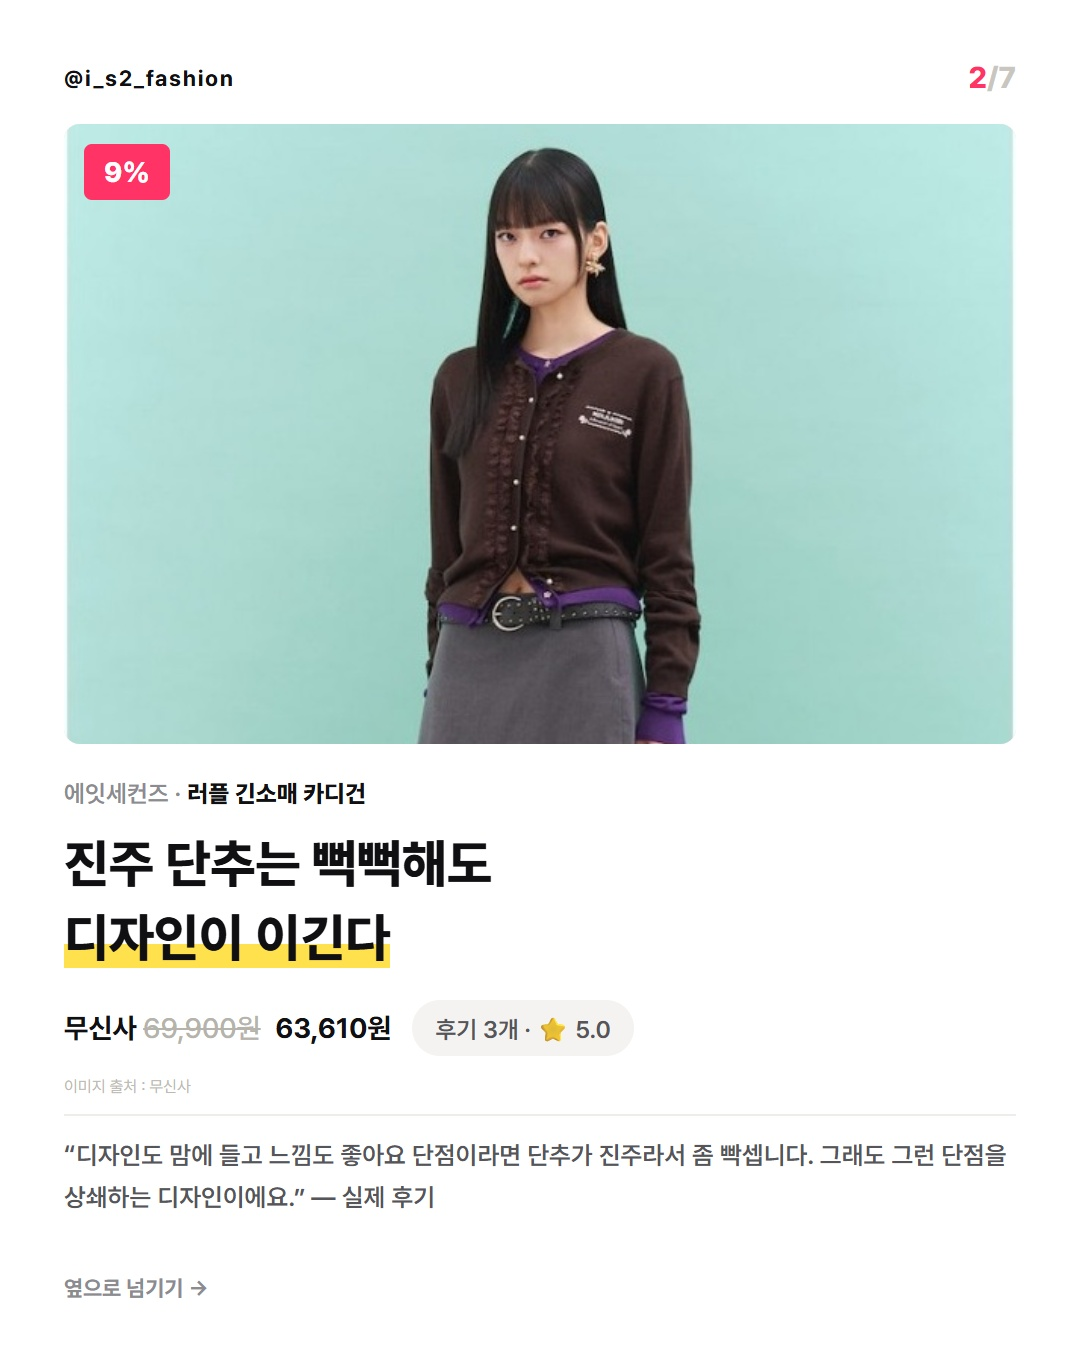
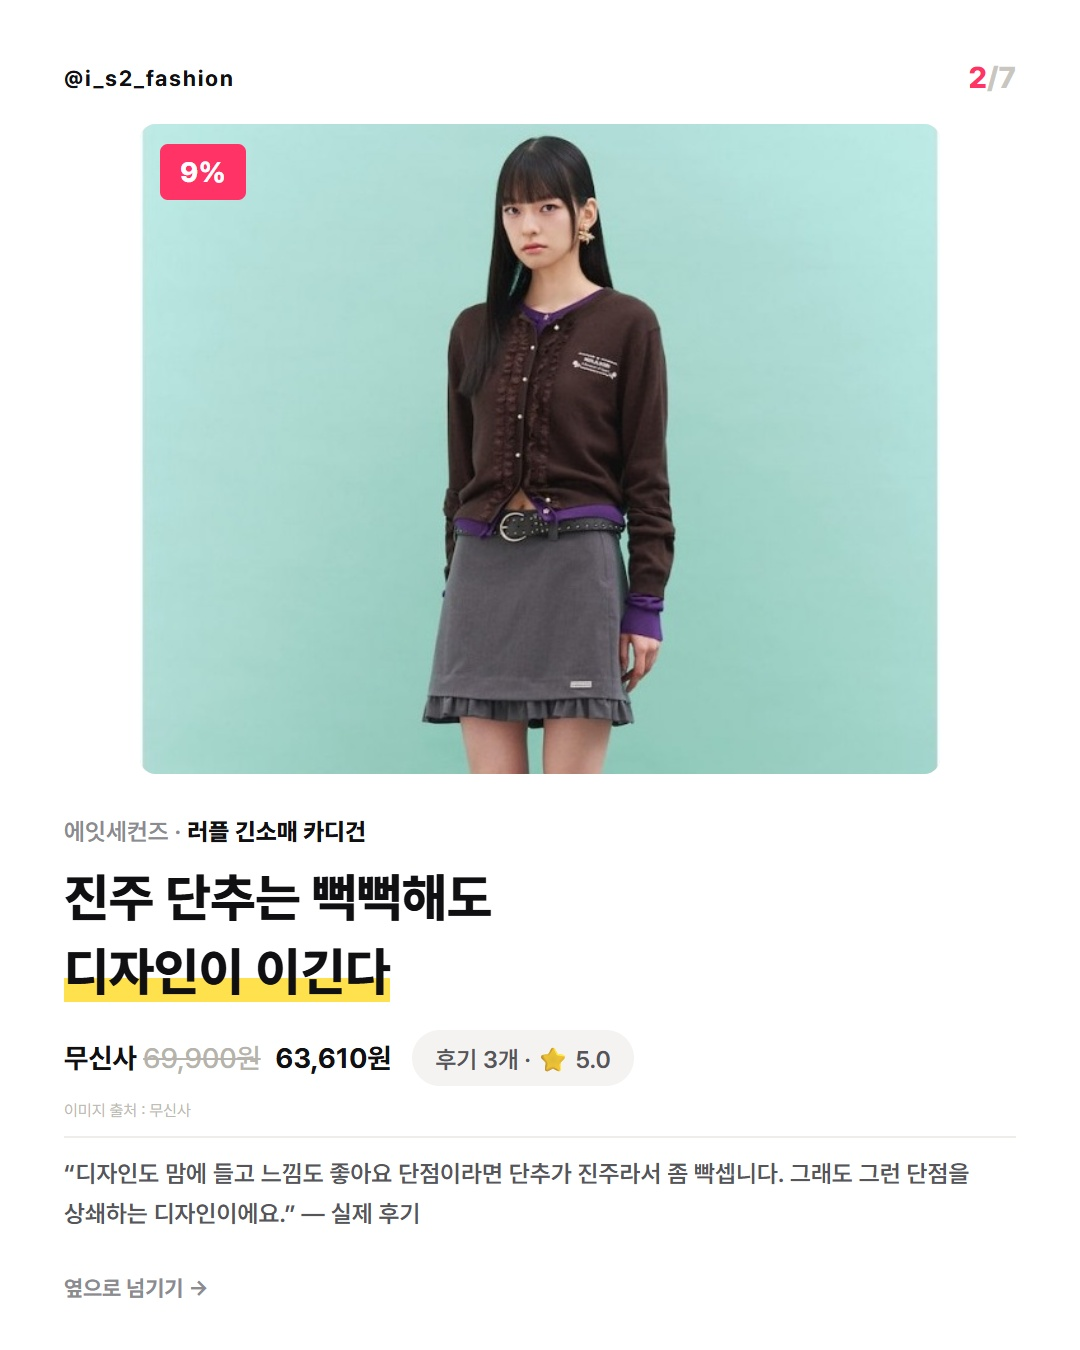
chore: auto-commit by Claude Code (2026-09-04 01:17:54)

Changed region(s): [[0.0611, 0.0933, 0.9472, 0.9022], [0.3972, 0.7467, 0.5806, 0.8089]]

diff --git a/card-drafts/early-autumn-outer/index.html b/card-drafts/early-autumn-outer/index.html
@@ -1,24 +1,25 @@
 <!doctype html><html lang="ko"><head><meta charset="utf-8"><meta name="viewport" content="width=device-width,initial-scale=1"><title>초가을 아우터 카드뉴스</title>
 <link href="https://cdn.jsdelivr.net/gh/orioncactus/pretendard@v1.3.9/dist/web/variable/pretendardvariable.min.css" rel="stylesheet"><style>
-:root{--ink:#101012;--mute:#8b8b90;--accent:#ff3366;--chip:#f4f3f1;--sans:"Pretendard Variable","Pretendard","Apple SD Gothic Neo","Malgun Gothic",system-ui,sans-serif}*{box-sizing:border-box}body{margin:0;background:#141416;color:#cfcfca;font-family:var(--sans);padding:42px 20px 100px}.head{max-width:1180px;margin:auto;text-align:center}.head h1{font-size:20px;color:#fff;margin:0 0 10px}.head p{font-size:13px;color:#96938c;line-height:1.7;margin:0}.toolbar{margin:20px auto 34px;text-align:center}.toolbar button{font:600 11px var(--sans);letter-spacing:.12em;background:#e8e5de;border:0;padding:12px 22px;cursor:pointer}.board{max-width:1180px;margin:auto;display:grid;grid-template-columns:repeat(auto-fit,minmax(270px,1fr));gap:40px 26px;justify-items:center}.col{width:100%;max-width:360px}.slot{width:100%;position:relative;overflow:hidden}.cap{display:flex;justify-content:space-between;align-items:center;margin:14px 2px 0;font-size:10.5px;color:#8f8c85;letter-spacing:.14em}.cap button{font:500 10px var(--sans);color:#cfccc5;background:transparent;border:1px solid #ffffff2e;padding:6px 11px;cursor:pointer}.card{position:relative;width:540px;height:675px;overflow:hidden;background:#fff;color:var(--ink);transform-origin:top left;display:flex;flex-direction:column;padding:30px 32px 24px}.toprow{display:flex;justify-content:space-between;align-items:center;flex:none;margin-bottom:14px}.handle{font-size:11px;font-weight:700;letter-spacing:.08em}.num{font-size:15px;font-weight:800;color:var(--accent)}.num i{font-style:normal;color:#c9c6bf}.photo{flex:none;align-self:center;width:330px;height:330px;border-radius:6px;overflow:hidden;position:relative;background:#f5f5f3}.photo img{width:100%;height:100%;object-fit:contain;display:block}.badge{position:absolute;top:10px;left:10px;background:var(--accent);color:#fff;font-size:14px;font-weight:800;padding:6px 10px;border-radius:4px}.caption{flex:1;min-height:0;display:flex;flex-direction:column;justify-content:center}.title{margin:0;font-weight:800;font-size:26px;line-height:1.42;letter-spacing:0;word-break:keep-all}.title em{font-style:normal;box-shadow:inset 0 -12px 0 #ffe14d}.prodline{font-size:12px;font-weight:600;color:#8b8b90;margin-bottom:10px;letter-spacing:.1px}.prodline b{color:#101012;font-weight:800}.metarow{display:flex;align-items:center;gap:10px;margin-top:12px;flex-wrap:wrap}.meta{font-size:14px;font-weight:700}.proof{background:var(--chip);border-radius:99px;padding:6px 12px;font-size:12px;font-weight:600;color:#55555a}.credit{font-size:8px;color:#bdbab3;margin-top:10px}.selling{margin-top:9px;font-size:12.5px;font-weight:600;color:#55555a;line-height:1.75;letter-spacing:.1px;word-break:keep-all;border-top:1px solid #efedea;padding-top:9px}.foot{flex:none;margin-top:10px;font-size:11px;font-weight:700;color:var(--mute)}.cover .title{font-size:39px;line-height:1.34;letter-spacing:-.2px}.cover .kicker{font-size:14px;font-weight:800;color:var(--accent);letter-spacing:.14em;margin-bottom:10px}.cover .sub,.cta .sub{font-size:14.5px;font-weight:600;color:#55555a;margin:14px 0 0;line-height:1.75;letter-spacing:.1px}.cta .title{font-size:32px;line-height:1.38}.cta .caption{text-align:center;align-items:center}.cta .photo{width:400px;height:380px}@media(max-width:620px){body{padding:28px 12px 70px}.board{grid-template-columns:1fr}.col{max-width:390px}}
+:root{--ink:#101012;--mute:#8b8b90;--accent:#ff3366;--chip:#f4f3f1;--sans:"Pretendard Variable","Pretendard","Apple SD Gothic Neo","Malgun Gothic",system-ui,sans-serif}*{box-sizing:border-box}body{margin:0;background:#141416;color:#cfcfca;font-family:var(--sans);padding:42px 20px 100px}.head{max-width:1180px;margin:auto;text-align:center}.head h1{font-size:20px;color:#fff;margin:0 0 10px}.head p{font-size:13px;color:#96938c;line-height:1.7;margin:0}.toolbar{margin:20px auto 34px;text-align:center}.toolbar button{font:600 11px var(--sans);letter-spacing:.12em;background:#e8e5de;border:0;padding:12px 22px;cursor:pointer}.board{max-width:1180px;margin:auto;display:grid;grid-template-columns:repeat(auto-fit,minmax(270px,1fr));gap:40px 26px;justify-items:center}.col{width:100%;max-width:360px}.slot{width:100%;position:relative;overflow:hidden}.cap{display:flex;justify-content:space-between;align-items:center;margin:14px 2px 0;font-size:10.5px;color:#8f8c85;letter-spacing:.14em}.cap button{font:500 10px var(--sans);color:#cfccc5;background:transparent;border:1px solid #ffffff2e;padding:6px 11px;cursor:pointer}.card{position:relative;width:540px;height:675px;overflow:hidden;background:#fff;color:var(--ink);transform-origin:top left;display:flex;flex-direction:column;padding:30px 32px 24px}.toprow{display:flex;justify-content:space-between;align-items:center;flex:none;margin-bottom:14px}.handle{font-size:11px;font-weight:700;letter-spacing:.08em}.num{font-size:15px;font-weight:800;color:var(--accent)}.num i{font-style:normal;color:#c9c6bf}.photo{flex:none;align-self:center;width:330px;height:330px;border-radius:6px;overflow:hidden;position:relative;background:#f5f5f3}.photo img{width:100%;height:100%;object-fit:contain;display:block}.badge{position:absolute;top:10px;left:10px;background:var(--accent);color:#fff;font-size:14px;font-weight:800;padding:6px 10px;border-radius:4px}.caption{flex:1;min-height:0;display:flex;flex-direction:column;justify-content:center}.title{margin:0;font-weight:800;font-size:26px;line-height:1.42;letter-spacing:0;word-break:keep-all}.title em{font-style:normal;box-shadow:inset 0 -12px 0 #ffe14d}.prodline{font-size:12px;font-weight:600;color:#8b8b90;margin-bottom:8px;letter-spacing:.1px}.prodline b{color:#101012;font-weight:800}.metarow{display:flex;align-items:center;gap:10px;margin-top:10px;flex-wrap:wrap}.meta{font-size:14px;font-weight:700}.proof{background:var(--chip);border-radius:99px;padding:6px 12px;font-size:12px;font-weight:600;color:#55555a}.credit{font-size:8px;color:#bdbab3;margin-top:7px}.selling{margin-top:8px;font-size:12px;font-weight:600;color:#55555a;line-height:1.65;letter-spacing:.1px;word-break:keep-all;border-top:1px solid #efedea;padding-top:9px}.foot{flex:none;margin-top:10px;font-size:11px;font-weight:700;color:var(--mute)}.cover .title{font-size:39px;line-height:1.34;letter-spacing:-.2px}.cover .kicker{font-size:14px;font-weight:800;color:var(--accent);letter-spacing:.14em;margin-bottom:10px}.cover .sub,.cta .sub{font-size:14.5px;font-weight:600;color:#55555a;margin:14px 0 0;line-height:1.75;letter-spacing:.1px}.cta .title{font-size:32px;line-height:1.38}.cta .caption{text-align:center;align-items:center}.cta .photo{width:400px;height:380px}@media(max-width:620px){body{padding:28px 12px 70px}.board{grid-template-columns:1fr}.col{max-width:390px}}
 @media(max-width:620px){.board{width:100%;grid-template-columns:minmax(0,1fr)}.col{min-width:0;max-width:100%}}
 /* 원본 비율을 유지하므로 남는 영역을 채우는 인위적인 사진 프레임은 사용하지 않는다. */
 .photo{background:transparent}
 .meta s{color:#b6b3ac;font-weight:500;margin-right:4px}
-.card.item .photo,.card.cover .photo{width:476px;border-radius:8px;background:#f0efec}
-.card.cover .photo{height:366px}
-.card.item .photo{height:310px;box-shadow:inset 0 0 0 1px #ebe9e5}
+.card.item .photo,.card.cover .photo{width:400px;border-radius:8px;background:#f0efec}
+.card.cover .photo{height:370px}
+.card.item .photo{height:325px;box-shadow:inset 0 0 0 1px #ebe9e5}
+.card.item .caption{margin-top:12px}
 .card.item .photo img,.card.cover .photo img{width:100%;height:100%;object-fit:cover;object-position:var(--pos,50% 20%)}
 .cover .caption{margin-top:14px}
 </style></head><body><div class="head"><h1>초가을 아우터 카드뉴스 · 인스타 후킹형 · @i_s2_fashion</h1><p>표지 → 러플 카디건 · 네이비 재킷 · 하프 트렌치 · 윈드브레이커 · 트랙탑 → CTA (7장)<br>C안 고정 디자인 · 상품 정보: 무신사 2026-09-04 재확인</p></div><div class="toolbar"><button onclick="exportAll()">⬇ 전체 PNG 내보내기 (7장)</button></div><div class="board" id="board"></div>
 <script src="https://cdnjs.cloudflare.com/ajax/libs/html2canvas/1.4.1/html2canvas.min.js"></script><script>
 const cards=[
-{kind:'cover',img:'assets/cover-calvin-big.jpg',lab:'표지',kicker:'EARLY AUTUMN OUTER',title:'반팔 위에 바로,<br><em>초가을 아우터</em>',sub:'두껍지 않게 분위기만 먼저 바꾸는 다섯 벌'},
-{kind:'item',img:'assets/01-eightseconds-cardigan-crop.jpg',pos:'50% 6%',lab:'에잇세컨즈',badge:'9%',prod:'에잇세컨즈 · <b>러플 긴소매 카디건</b>',title:'진주 단추는 뻑뻑해도<br><em>디자인이 이긴다</em>',meta:'무신사 <s>69,900원</s> 63,610원',proof:'후기 3개 · ⭐ 5.0',sp:'“디자인도 맘에 들고 느낌도 좋아요 단점이라면 단추가 진주라서 좀 빡셉니다. 그래도 그런 단점을 상쇄하는 디자인이에요.” —&nbsp;실제&nbsp;후기'},
+{kind:'cover',img:'assets/cover-calvin-big.jpg',pos:'50% 15%',lab:'표지',kicker:'EARLY AUTUMN OUTER',title:'반팔 위에 바로,<br><em>초가을 아우터</em>',sub:'두껍지 않게 분위기만 먼저 바꾸는 다섯 벌'},
+{kind:'item',img:'assets/01-eightseconds-cardigan-crop.jpg',pos:'50% 10%',lab:'에잇세컨즈',badge:'9%',prod:'에잇세컨즈 · <b>러플 긴소매 카디건</b>',title:'진주 단추는 뻑뻑해도<br><em>디자인이 이긴다</em>',meta:'무신사 <s>69,900원</s> 63,610원',proof:'후기 3개 · ⭐ 5.0',sp:'“디자인도 맘에 들고 느낌도 좋아요 단점이라면 단추가 진주라서 좀 빡셉니다. 그래도 그런 단점을 상쇄하는 디자인이에요.” —&nbsp;실제&nbsp;후기'},
 {kind:'item',img:'assets/02-polo-big.jpg',pos:'50% 50%',lab:'폴로 랄프 로렌',badge:'5%',prod:'폴로 랄프 로렌 · <b>빅 재킷 네이비</b>',title:'해링턴보다<br><em>빅 재킷</em>',meta:'무신사 <s>499,000원</s> 474,050원',proof:'후기 6개 · ⭐ 4.8',sp:'“비싸서 매번 쳐다만 보던 폴로 재킷 구매했습니다. 다른 폴로의 워크 재킷류가 많았지만 해링턴 재킷보다는 빅재킷이 제일 이뻐보여서 이걸로 장만했습니다.” —&nbsp;실제&nbsp;후기'},
-{kind:'item',img:'assets/03-mixxo-cuff.jpg',pos:'50% 30%',lab:'미쏘',badge:'24%',prod:'미쏘 · <b>하프 트렌치코트</b>',title:'소매를 접으면<br><em>디테일이 보여</em>',meta:'무신사 <s>129,000원</s> 98,040원',proof:'후기 15개 · ⭐ 5.0',sp:'“봄가을에 너무너무 잘 입을거 같아요! 소매 안감 디테일도 너무 귀엽구 .. 색도 맘에들어요🫰🏻🤍 사이즈 s인데도 겁나 커요,, 매장에서 입어보고 온라인주문 추천합니댜 ㅎㅎ” —&nbsp;실제&nbsp;후기'},
-{kind:'item',img:'assets/04-calvin-big.jpg',pos:'50% 42%',lab:'캘빈클라인 진',badge:'40%',prod:'캘빈클라인 진 · <b>콘트라스트 스티치 윈드브레이커</b>',title:'가볍게 걸치고<br><em>뒤는 확실하게</em>',meta:'무신사 <s>219,000원</s> 131,400원',proof:'후기 98개 · ⭐ 4.9',sp:'“뒤에 백로고가 너무 예뻐요. 간절기에 들고 다니고 걸치기 좋은 두께감입니다. 가벼워요” —&nbsp;실제&nbsp;후기'},
-{kind:'item',img:'assets/05-adidas-big.jpg',pos:'50% 78%',lab:'아디다스',badge:'17%',prod:'아디다스 · <b>클래식 트랙탑</b>',title:'색감 예쁜데<br><em>밑단 시보리 짱짱</em>',meta:'무신사 <s>109,000원</s> 90,470원',proof:'후기 9개 · ⭐ 5.0',sp:'“디자인이랑 색감 진짜 이뻐요! 그리고 밑단 시보리가 엄청 짱짱해서 골반에 딱 걸쳐요 이 부분 고려해서 사이즈 선택해야 할 것 같아요” —&nbsp;실제&nbsp;후기'},
+{kind:'item',img:'assets/03-mixxo-cuff.jpg',pos:'50% 35%',lab:'미쏘',badge:'24%',prod:'미쏘 · <b>하프 트렌치코트</b>',title:'소매를 접으면<br><em>디테일이 보여</em>',meta:'무신사 <s>129,000원</s> 98,040원',proof:'후기 15개 · ⭐ 5.0',sp:'“봄가을에 너무너무 잘 입을거 같아요! 소매 안감 디테일도 너무 귀엽구 .. 색도 맘에들어요🫰🏻🤍 사이즈 s인데도 겁나 커요,, 매장에서 입어보고 온라인주문 추천합니댜 ㅎㅎ” —&nbsp;실제&nbsp;후기'},
+{kind:'item',img:'assets/04-calvin-big.jpg',pos:'50% 45%',lab:'캘빈클라인 진',badge:'40%',prod:'캘빈클라인 진 · <b>콘트라스트 스티치 윈드브레이커</b>',title:'가볍게 걸치고<br><em>뒤는 확실하게</em>',meta:'무신사 <s>219,000원</s> 131,400원',proof:'후기 98개 · ⭐ 4.9',sp:'“뒤에 백로고가 너무 예뻐요. 간절기에 들고 다니고 걸치기 좋은 두께감입니다. 가벼워요” —&nbsp;실제&nbsp;후기'},
+{kind:'item',img:'assets/05-adidas-big.jpg',pos:'50% 100%',lab:'아디다스',badge:'17%',prod:'아디다스 · <b>클래식 트랙탑</b>',title:'색감 예쁜데<br><em>밑단 시보리 짱짱</em>',meta:'무신사 <s>109,000원</s> 90,470원',proof:'후기 9개 · ⭐ 5.0',sp:'“디자인이랑 색감 진짜 이뻐요! 그리고 밑단 시보리가 엄청 짱짱해서 골반에 딱 걸쳐요 이 부분 고려해서 사이즈 선택해야 할 것 같아요” —&nbsp;실제&nbsp;후기'},
 {kind:'cta',img:'../../CARD/zzal/20260830.jpg',lab:'CTA',title:'다 사고 싶지만<br><em>통장은 하나</em>',sub:'이번 가을 가장 먼저 살 한 벌부터<br>골라서 저장해두세요'}];
 function html(c,i){let photo=c.kind==='cta'?`<div class="photo"><img src="${c.img}" alt="" onload="sizePhoto(this)"></div>`:`<div class="photo"><img src="${c.img}" alt="" style="--pos:${c.pos||'50% 20%'}">${c.badge?`<span class="badge">${c.badge}</span>`:''}</div>`,body=c.kind==='cover'?`<div class="caption"><div class="kicker">${c.kicker}</div><h2 class="title">${c.title}</h2><p class="sub">${c.sub}</p></div>`:c.kind==='cta'?`<div class="caption"><h2 class="title">${c.title}</h2><p class="sub">${c.sub}</p></div>`:`<div class="caption"><div class="prodline">${c.prod}</div><h2 class="title">${c.title}</h2><div class="metarow"><span class="meta">${c.meta}</span><span class="proof">${c.proof}</span></div><div class="credit">이미지 출처 : 무신사</div><div class="selling">${c.sp}</div></div>`;return `<div class="card ${c.kind}" id="card${i}"><div class="toprow"><span class="handle">@i_s2_fashion</span><span class="num">${i+1}<i>/7</i></span></div>${photo}${body}<div class="foot">${i<6?'옆으로 넘기기 →':'&nbsp;'}</div></div>`}
 function sizePhoto(img){const wrap=img.parentElement,isCta=wrap.closest('.cta'),maxW=isCta?400:330,maxH=isCta?380:330,ratio=img.naturalWidth/img.naturalHeight;let w=maxW,h=Math.round(w/ratio);if(h>maxH){h=maxH;w=Math.round(h*ratio)}wrap.style.width=w+'px';wrap.style.height=h+'px'}

diff --git a/card-drafts/early-autumn-outer/result.md b/card-drafts/early-autumn-outer/result.md
@@ -37,6 +37,10 @@
    ③ 6번 아디다스: 헤드라인이 "밑단 시보리"인데 사진은 얼굴·가슴만 보였다 → 크롭 위치를 내려 밑단 시보리가 보이게 조정.
    ④ 3번 폴로: 무신사에 착용컷이 없어 누끼 유지(규칙 4 예외 보고). 재킷 전체가 들어오게 중앙 크롭, 흰 배경이 카드와 섞이지 않게 사진 프레임에 1px 테두리.
 
+9. **디자인 피드백 2차 (09-05)** — "양옆 애매한 간격 대신 분명하게 띄우고, 상품이 잘리거나 안 보이는 카드 수정":
+   사진 프레임을 476→**400px**(좌우 여백 32→70px)로 줄이고 높이를 310→**325px**(표지 370px)로 키워 정사각에 가깝게 바꿨다.
+   세로 사진의 노출 비율이 54%→68~77%로 늘어 카디건·트렌치·재킷이 거의 통째로 들어온다. 아디다스는 헤드라인(밑단 시보리)에 맞춰 하단 기준 크롭.
+
 ## 2. 게시 전 검증 (2026-09-04)
 - 무신사 상품 페이지·후기 API로 5종 가격·할인율·후기 수·평점 실측 (아래 표). 할인 검산 5건 일치
   (69,900×0.91≈63,610 / 499,000×0.95=474,050 / 129,000×0.76=98,040 / 219,000×0.60=131,400 / 109,000×0.83=90,470).
